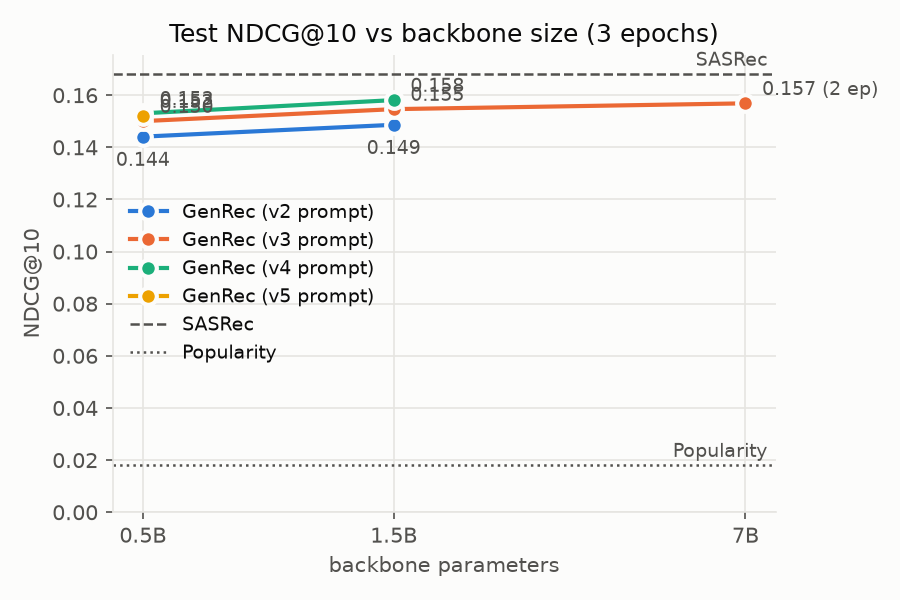
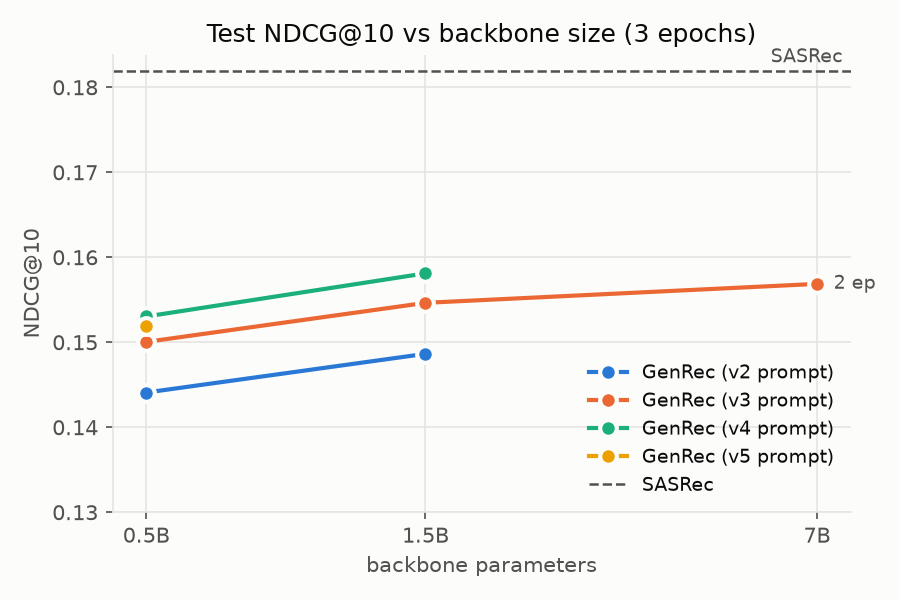
Add paper's LM loss (--lm_weight), tuned SASRec baseline, project goal
- genrec.py: --lm_weight β adds the paper's language loss on the target
  title, L = (1−β)·L_rank + β·L_lm; ranking h is read before the title
  (verified identical to the ranking-only path); β=0 keeps old behavior
- plot.py: select runs by validation score; scaling plot zoomed, values
  in results.md
- docs: project goal (faithful reproduction vs tuned SASRec), SASRec
  tuning grid (NDCG@10 0.1681 → 0.1820), 1.5B v5 result (no gain),
  runs table with LM-loss and 8-epoch runs; RunPod/WSL → Cloud/Local

diff --git a/genrec.py b/genrec.py
@@ -10,7 +10,7 @@ import torch
 import torch.nn as nn
 import torch.nn.functional as F
 from peft import LoraConfig, get_peft_model
-from transformers import AutoModel, AutoTokenizer
+from transformers import AutoModel, AutoModelForCausalLM, AutoTokenizer
 
 from common import add_synopses, evaluate, fmt, load, log_history, machine, pick_device, save_metrics, start_run
 
@@ -32,9 +32,10 @@ def verbalize(d, items, ratings, n, prompt="v2", user=None):
 
 
 class GenRec(nn.Module):
-    def __init__(self, n_items, backbone, lora_r=16, dtype=torch.float32, grad_ckpt=False):
+    def __init__(self, n_items, backbone, lora_r=16, dtype=torch.float32, grad_ckpt=False, lm=False):
         super().__init__()
-        llm = AutoModel.from_pretrained(backbone, dtype=dtype)
+        # lm=True keeps the LM head for the paper's language loss; the ranking path is identical either way
+        llm = (AutoModelForCausalLM if lm else AutoModel).from_pretrained(backbone, dtype=dtype)
         lora = LoraConfig(r=lora_r, lora_alpha=2 * lora_r, target_modules=["q_proj", "k_proj", "v_proj", "o_proj"])
         if grad_ckpt:  # recompute activations in backward: ~30% slower, ~GBs less memory
             llm.gradient_checkpointing_enable()
@@ -44,8 +45,25 @@ class GenRec(nn.Module):
         self.item = nn.Embedding(n_items + 1, llm.config.hidden_size)  # scoring head E
         nn.init.normal_(self.item.weight, std=0.02)
 
+    def hidden(self, tokens):  # transformer body (with LoRA) -> (B, L, d)
+        base = self.llm.get_base_model()
+        return getattr(base, "model", base)(**tokens).last_hidden_state
+
     def encode(self, tokens):  # left-padded -> (B, d), last token
-        return self.norm(self.llm(**tokens).last_hidden_state[:, -1].float())
+        return self.norm(self.hidden(tokens)[:, -1].float())
+
+    def encode_lm(self, tokens, title_len):
+        """Prompt + target title in one pass: h at the last prompt token (before the title),
+        LM loss on the title tokens."""
+        H = self.hidden(tokens)
+        L = H.size(1)
+        rows = torch.arange(H.size(0), device=H.device)
+        h = self.norm(H[rows, L - title_len - 1].float())
+        b, pos = zip(*[(i, L - n - 1 + k) for i, n in enumerate(title_len.tolist()) for k in range(n)])
+        b, pos = torch.tensor(b, device=H.device), torch.tensor(pos, device=H.device)
+        logits = self.llm.get_base_model().lm_head(H[b, pos]).float()  # position pos predicts token pos+1
+        lm_loss = F.cross_entropy(logits, tokens["input_ids"][b, pos + 1])
+        return h, lm_loss
 
     def score(self, h):
         return h @ self.item.weight.T
@@ -59,6 +77,18 @@ class Encoder:
     def __call__(self, users, hist):
         texts = [verbalize(self.d, h, self.d.ratings[u], self.n, self.prompt, u) for u, h in zip(users, hist)]
         return self.tok(texts, return_tensors="pt", padding=True).to(self.device)
+
+    def with_titles(self, users, hist, tgt):
+        """Prompt followed by the target title (training only); left-padded. Returns tokens, title lengths."""
+        texts = [verbalize(self.d, h, self.d.ratings[u], self.n, self.prompt, u) for u, h in zip(users, hist)]
+        prompts = self.tok(texts)["input_ids"]
+        titles = self.tok([" " + self.d.movies.title[t] for t in tgt], add_special_tokens=False)["input_ids"]
+        seqs = [p + t for p, t in zip(prompts, titles)]
+        L, pad = max(map(len, seqs)), self.tok.pad_token_id
+        ids = torch.tensor([[pad] * (L - len(x)) + x for x in seqs])
+        mask = torch.tensor([[0] * (L - len(x)) + [1] * len(x) for x in seqs])
+        tokens = {"input_ids": ids.to(self.device), "attention_mask": mask.to(self.device)}
+        return tokens, torch.tensor([len(t) for t in titles], device=self.device)
 
 
 def score_fn(model, enc):
@@ -92,7 +122,7 @@ def train(args):
 
     tok = AutoTokenizer.from_pretrained(args.backbone, padding_side="left")
     enc = Encoder(d, tok, args.history, device, args.prompt)
-    model = GenRec(d.n_items, args.backbone, args.lora_r, dtype, args.grad_ckpt).to(device)
+    model = GenRec(d.n_items, args.backbone, args.lora_r, dtype, args.grad_ckpt, lm=args.lm_weight > 0).to(device)
     model.llm.print_trainable_parameters()
     if args.resume:  # continue from a saved checkpoint (LoRA + head); a fresh LR schedule starts
         missing = model.load_state_dict(torch.load(args.resume, map_location=device), strict=False)
@@ -119,12 +149,16 @@ def train(args):
         total = window = 0.0
         for step, i in enumerate(range(0, len(samples), args.batch_size), 1):
             users, hist, tgt, rating = zip(*samples[i:i + args.batch_size])
-            logits = model.score(model.encode(enc(users, hist)))
+            if args.lm_weight > 0:  # paper: L = α·L_rank + β·L_language, α + β = 1
+                h, lm_loss = model.encode_lm(*enc.with_titles(users, hist, tgt))
+            else:
+                h, lm_loss = model.encode(enc(users, hist)), 0.0
+            logits = model.score(h)
             loss = F.cross_entropy(logits, torch.tensor(tgt, device=device), reduction="none")
             if args.rating_weight:  # paper's reward weighting: weight by rating, mean 1 per batch
                 w = torch.tensor(rating, device=device, dtype=torch.float)
                 loss = loss * w / w.mean()
-            loss = loss.mean()
+            loss = (1 - args.lm_weight) * loss.mean() + args.lm_weight * lm_loss
             opt.zero_grad()
             loss.backward()
             torch.nn.utils.clip_grad_norm_(params, args.clip)
@@ -176,6 +210,7 @@ if __name__ == "__main__":
     p.add_argument("--warmup", type=float, default=0.05, help="fraction of steps")
     p.add_argument("--clip", type=float, default=1.0, help="grad norm clip")
     p.add_argument("--rating_weight", action="store_true", help="weight loss by target rating")
+    p.add_argument("--lm_weight", type=float, default=0.0, help="β for the paper's language loss on the target title")
     p.add_argument("--resume", help="checkpoint (.pt) to start from, e.g. runs/<run>/best.pt")
     p.add_argument("--seed", type=int, default=42)
     train(p.parse_args())

diff --git a/plot.py b/plot.py
@@ -14,7 +14,7 @@ matplotlib.use("Agg")
 import matplotlib.pyplot as plt
 import matplotlib.ticker
 
-from common import RUNS, evaluate, load, popularity
+from common import RUNS
 
 OUT = Path(__file__).parent / "docs" / "figures"
 SERIES = ["#2a78d6", "#eb6834", "#1baf7a", "#eda100"]  # validated categorical order
@@ -57,11 +57,17 @@ def main_runs():
             yield p, info
 
 
+def valid_score(p, info):
+    """Selection uses validation only (max valid NDCG@10); test is never used to choose."""
+    _, hist = read_run(p)
+    return max((v for _, v in hist.get("valid_NDCG@10", [])), default=info["metrics"]["NDCG@10"])
+
+
 def full_runs():
-    """Best main run per (model, backbone, prompt), by test NDCG@10."""
+    """Best main run per (model, backbone, prompt, epochs), by valid NDCG@10."""
     best = {}
     for p, info in main_runs():
-        key, score = label(p, info), info["metrics"]["NDCG@10"]
+        key, score = label(p, info), valid_score(p, info)
         if key not in best or score > best[key][1]:
             best[key] = (p, score)
     return [p for p, _ in best.values()]
@@ -76,8 +82,8 @@ def best_per_size(runs):
     for p in runs:
         info, _ = read_run(p)
         key = info["args"].get("backbone", "sasrec")
-        if key not in best or info["metrics"]["NDCG@10"] > best[key][1]:
-            best[key] = (p, info["metrics"]["NDCG@10"])
+        if key not in best or valid_score(p, info) > best[key][1]:
+            best[key] = (p, valid_score(p, info))
     return [p for p, _ in sorted(best.values(), key=lambda x: -x[1])][:len(SERIES)]
 
 
@@ -110,32 +116,29 @@ def plot_scaling(runs):
         a = info["args"]
         size = re.search(r"(\d+(?:\.\d+)?)B", a.get("backbone", "")) if p.name.startswith("genrec") else None
         if size:
-            key, ep, ndcg = (a.get("prompt", "v2"), float(size.group(1))), a.get("epochs", 1), info["metrics"]["NDCG@10"]
-            rank = (-abs(ep - SCALING_EPOCHS), ndcg)  # closest to SCALING_EPOCHS, then best score
-            if key not in cells or rank > (-abs(cells[key][0] - SCALING_EPOCHS), cells[key][1]):
-                cells[key] = (ep, ndcg)
+            key, ep = (a.get("prompt", "v2"), float(size.group(1))), a.get("epochs", 1)
+            rank = (-abs(ep - SCALING_EPOCHS), valid_score(p, info))  # closest to SCALING_EPOCHS, then best valid
+            if key not in cells or rank > cells[key][0]:
+                cells[key] = (rank, ep, info["metrics"]["NDCG@10"])
     for p in runs:
         if p.name.startswith("sasrec"):
             sasrec = read_run(p)[0]["metrics"]["NDCG@10"]
     points = {}  # prompt -> [(size, ndcg, epochs)]
-    for (prompt, size), (ep, ndcg) in cells.items():
+    for (prompt, size), (_, ep, ndcg) in cells.items():
         points.setdefault(prompt, []).append((size, ndcg, ep))
     if not points:
         print("no GenRec full runs yet: skip scaling.png")
         return
-    d = load()
-    pop = evaluate(popularity(d), d)["NDCG@10"]
 
     fig, ax = plt.subplots(figsize=(6, 4))
     sizes = sorted({x for pts in points.values() for x, _, _ in pts})
     for i, (color, (prompt, pts)) in enumerate(zip(SERIES, sorted(points.items()))):
         xs, ys, eps = zip(*sorted(pts))
         ax.plot(xs, ys, "-o", color=color, markeredgecolor=SURFACE, markeredgewidth=2, label=f"GenRec ({prompt} prompt)")
-        offset, ha = ((0, -14), "center") if i == 0 else ((8, 4), "left")  # keep same-size labels apart
-        for x, y, ep in zip(xs, ys, eps):
-            note = "" if ep == SCALING_EPOCHS else f" ({ep} ep)"
-            ax.annotate(f"{y:.3f}{note}", (x, y), xytext=offset, textcoords="offset points", ha=ha, fontsize=9, color=INK2)
-    for y, name, style in ((sasrec, "SASRec", "--"), (pop, "Popularity", ":")):
+        for x, y, ep in zip(xs, ys, eps):  # exact values live in results.md; only flag off-schedule points
+            if ep != SCALING_EPOCHS:
+                ax.annotate(f"{ep} ep", (x, y), xytext=(8, 0), textcoords="offset points", va="center", fontsize=9, color=INK2)
+    for y, name, style in ((sasrec, "SASRec", "--"),):  # Popularity (~0.02) is far below the zoomed axis
         if y is not None:
             ax.axhline(y, color=INK2, linestyle=style, linewidth=1.2, label=name)
             ax.annotate(name, (1, y), xycoords=("axes fraction", "data"), xytext=(-4, 4),
@@ -143,9 +146,9 @@ def plot_scaling(runs):
     ax.set_xscale("log")
     ax.set_xticks(sizes, [f"{x:g}B" for x in sizes])
     ax.minorticks_off()
-    ax.set(title=f"Test NDCG@10 vs backbone size ({SCALING_EPOCHS} epochs)", xlabel="backbone parameters", ylabel="NDCG@10", ylim=(0, None))
+    ax.set(title=f"Test NDCG@10 vs backbone size ({SCALING_EPOCHS} epochs)", xlabel="backbone parameters", ylabel="NDCG@10", ylim=(0.13, None))
     ax.title.set_color(INK)
-    ax.legend(loc="center left", fontsize=9)
+    ax.legend(loc="lower right", fontsize=9)
     fig.tight_layout()
     fig.savefig(OUT / "scaling.png", dpi=150)
     print(f"wrote {OUT / 'scaling.png'}")

diff --git a/docs/plan.md b/docs/plan.md
@@ -2,6 +2,20 @@
 
 Paper: [GenRec: An LLM-Backed Recommendation Ranker at Netflix](https://arxiv.org/html/2608.10257v2)
 
+## Goal
+Reproduce GenRec as described in the paper on public data (MovieLens-1M) and check whether it beats a tuned standard baseline (SASRec). Paper-faithful by default; anything not in the paper is opt-in and labeled.
+
+| Component | Status |
+|---|---|
+| Verbalized history → LLM → pooled `h` → `h·e_i`, CE over full catalog | ✅ faithful |
+| Context engineering (prompt versions) | ✅ faithful |
+| Reward weighting (here: rating) | ✅ faithful, tested |
+| LM loss `β·L_language` on the target title | 🔄 faithful, testing |
+| Model-size scaling | ✅ faithful |
+| Warmup, grad clip, LayerNorm on `h`, LoRA | implementation details the paper doesn't specify |
+| Phase 1 (domain pre-training on Netflix logs) | ❌ not reproducible (no data); Qwen2.5 used as-is |
+| Multi-position loss, item init from text | ❌ not in paper — out of scope |
+
 ## Idea
 ```
 history → text prompt → LLM → h (last token) → score_i = h · e_i → softmax over all movies
@@ -27,9 +41,9 @@ history → text prompt → LLM → h (last token) → score_i = h · e_i → so
 
 ## Loss
 ```
-L = CE(score, target_item)
+L = (1−β)·CE(score, target_item) + β·LM(target_title)     # paper: α+β=1
 ```
-- Paper's LM loss (β·LM(target_title)) dropped: redundant with ranking CE here; paper uses it to keep general language ability
+- `--lm_weight β` (default 0 = ranking only); β=0.1 under test
 - Optional: weight loss by rating (paper's "reward")
 
 ## Inference
@@ -73,39 +87,53 @@ Run: `uv run python {common,sasrec,genrec}.py`
 | # | Step | Status |
 |---|---|---|
 | 1 | Data: load, split, verbalize | ✅ |
-| 2 | Baselines: Popularity, SASRec | ✅ SASRec NDCG@10 0.168 |
+| 2 | Baselines: Popularity, SASRec | ✅ SASRec tuned NDCG@10 0.182 (untuned 0.168) |
 | 3 | Pipeline on small subset (CPU/MPS) | ✅ |
 | 4 | First GPU run: 0.5B + LoRA | ✅ beats Popularity |
-| 5 | Ablations | 🔄 prompt v2→v3 ✅ (+4%); rating weights ✅ (no gain); v4/v5 ✅ at 0.5B (within noise); history length ⬜ |
-| 6 | Scaling: 0.5B → 1.5B → 3B → 7B | 🔄 0.5B, 1.5B ✅ (+7%); 1.5B v3 ✅ (0.1546); 7B ✅ (0.1569, 2 ep); 3B queued |
+| 5 | Ablations | 🔄 prompt v2→v3 ✅ (+4%); rating weights ✅ (no gain); v4/v5 ✅ (v5 no gain; v4 +2% at 1.5B, borderline); LM loss 🔄 (#19); history length ⬜ |
+| 6 | Scaling: 0.5B → 1.5B → 3B → 7B | 🔄 0.5B, 1.5B ✅ (+7%); 7B ✅ (0.1569, 2 ep); epochs: 1.5B 3→5 ep +5%, 8 ep 🔄 (#18); 3B queued (#20); final 7B (#22) |
 | 7 | Data scaling on ML-25M (separate benchmark) | ⬜ after current queue |
 | 8 | README: results + reproduce | ⬜ |
 
 ## Runs
-Machines: **RunPod** = RTX 4090 Secure ($0.74/h) or A100 80GB (~$1.4–1.6/h) · **WSL** = local RTX 4060 Ti 16GB (~2.6× slower than 4090, $0) · **M1** = Apple M1 (MPS)
+Machines: **Cloud** = RTX 4090 ($0.74/h) or A100 80GB (~$1.4–1.6/h) · **Local** = RTX 4060 Ti 16GB (~2.6× slower than 4090, $0) · **M1** = Apple M1 (MPS)
 
 | # | Run | Status | Machine | Time | Cost | Test NDCG@10 |
 |---|---|---|---|---|---|---|
-| 1 | SASRec | ✅ | M1 | 16 min | $0 | 0.1681 |
-| 2 | 0.5B v2, 1 ep | ✅ | RunPod 4090 | 26 min | $0.45 | 0.0945 |
-| 3 | 0.5B v2, 1 ep, + warmup/clip | ✅ | RunPod 4090 | 13 min | $0.25 | 0.1295 |
-| 4 | 0.5B v2, 3 ep, lr 2e-4 | ✅ | RunPod 4090 | 38 min | $0.55 | 0.1441 |
-| 5 | 1.5B v2, 3 ep, lr 1e-4 | ✅ | RunPod 4090 | 99 min | $1.40 | 0.1486 |
-| 6 | 0.5B v2, 3 ep, lr 1e-4 | ✅ | RunPod 4090 | 74 min | $1.00 | 0.1386 |
-| 7 | 0.5B v3, 3 ep, lr 2e-4 | ✅ | RunPod 4090 | 78 min | $1.30 | 0.1500 |
-| 8 | 1.5B v3, 3 ep, lr 1e-4 | ✅ | RunPod 4090 | 3.4 h | $2.50 (+$0.85 failed pod) | 0.1546 |
-| 9 | 7B v3, 2 ep, lr 5e-5 | ✅ | RunPod A100 80GB | 6.1 h | $9.60 (+$0.65 crashed start) | 0.1569 |
-| 10 | 0.5B v3, seed 43 (noise check) | ✅ | WSL | 3.4 h | $0 | 0.1558 |
-| 11 | 0.5B v3, rating-weighted loss | ✅ no gain | WSL | 4.0 h | $0 | 0.1473 |
-| 12 | 1.5B v3, 5 ep | ✅ best | WSL | 19 h | $0 | **0.1627** |
-| 13 | 0.5B v5 | ✅ | WSL | 5.6 h | $0 | 0.1520 |
-| 14 | 0.5B v4 | ✅ | WSL | 4.0 h | $0 | 0.1530 |
-| 15 | 1.5B v4 (`--grad_ckpt`) | ✅ | WSL | 11.8 h | $0 | 0.1581 |
-| 16 | 1.5B v5 (`--grad_ckpt`) | 🔄 running | WSL | ~17 h | $0 | – |
-| 17 | 1.5B v4, 8 ep (epoch-count study for final) | ⏳ queued | WSL | ~31 h | $0 | – |
-| 18 | 3B v4 (`--grad_ckpt`) | ⏳ queued | WSL | ~17–22 h | $0 | – |
-| 19 | 0.5B v3, history 50 (`--grad_ckpt`) | ⏳ queued | WSL | ~11 h | $0 | – |
-| 20 | **Final: 7B v4, epochs from #17 (3–5), lr 5e-5** | ⬜ after #17 | RunPod A100 80GB | ~9–16 h | ~$15–26 | – |
+| 1 | SASRec (untuned: d=64, 100 ep) | ✅ | M1 | 16 min | $0 | 0.1681 |
+| 2 | 0.5B v2, 1 ep | ✅ | Cloud 4090 | 26 min | $0.45 | 0.0945 |
+| 3 | 0.5B v2, 1 ep, + warmup/clip | ✅ | Cloud 4090 | 13 min | $0.25 | 0.1295 |
+| 4 | 0.5B v2, 3 ep, lr 2e-4 | ✅ | Cloud 4090 | 38 min | $0.55 | 0.1441 |
+| 5 | 1.5B v2, 3 ep, lr 1e-4 | ✅ | Cloud 4090 | 99 min | $1.40 | 0.1486 |
+| 6 | 0.5B v2, 3 ep, lr 1e-4 | ✅ | Cloud 4090 | 74 min | $1.00 | 0.1386 |
+| 7 | 0.5B v3, 3 ep, lr 2e-4 | ✅ | Cloud 4090 | 78 min | $1.30 | 0.1500 |
+| 8 | 1.5B v3, 3 ep, lr 1e-4 | ✅ | Cloud 4090 | 3.4 h | $2.50 (+$0.85 failed pod) | 0.1546 |
+| 9 | 7B v3, 2 ep, lr 5e-5 | ✅ | Cloud A100 80GB | 6.1 h | $9.60 (+$0.65 crashed start) | 0.1569 |
+| 10 | 0.5B v3, seed 43 (noise check) | ✅ | Local | 3.4 h | $0 | 0.1558 |
+| 11 | 0.5B v3, rating-weighted loss | ✅ no gain | Local | 4.0 h | $0 | 0.1473 |
+| 12 | 1.5B v3, 5 ep | ✅ best | Local | 19 h | $0 | **0.1627** |
+| 13 | 0.5B v5 | ✅ | Local | 5.6 h | $0 | 0.1520 |
+| 14 | 0.5B v4 | ✅ | Local | 4.0 h | $0 | 0.1530 |
+| 15 | 1.5B v4 (`--grad_ckpt`) | ✅ | Local | 11.8 h | $0 | 0.1581 |
+| 16 | 1.5B v5 (`--grad_ckpt`) | ✅ no gain | Local | 16.8 h | $0 | 0.1552 |
+| 17 | SASRec tuning: d × dropout × heads (5 runs, 200 ep) | ✅ new baseline | M1 | 4 h | $0 | **0.1820** |
+| 18 | 1.5B v4, 8 ep (epoch-count study for final) | 🔄 running (valid ep1/2: 0.1145 / 0.1388) | Local | ~31 h | $0 | – |
+| 19 | 0.5B v4 + LM loss (β=0.1) | ⏳ queued | Local | ~4.5 h | $0 | – |
+| 20 | 3B v4 (`--grad_ckpt`) | ⏳ queued | Local | ~17–22 h | $0 | – |
+| 21 | 0.5B v3, history 50 (`--grad_ckpt`) | ⏳ queued | Local | ~11 h | $0 | – |
+| 22 | **Final: 7B v4, epochs from #18, LM loss per #19, lr 5e-5** | ⬜ after #18, #19 | Cloud A100 80GB | ~9–16 h | ~$15–26 | – |
+
+### SASRec tuning (#17; Mac M1, 200 ep, selected by valid)
+| d | dropout | heads | Valid NDCG@10 | Test NDCG@10 |
+|---|---|---|---|---|
+| 64 | 0.2 | 1 | 0.1772 | 0.1709 |
+| 64 | 0.5 | 1 | 0.1452 | 0.1394 |
+| 128 | 0.2 | 1 | 0.1938 | 0.1828 |
+| 128 | 0.5 | 1 | 0.1605 | 0.1546 |
+| **128** | **0.2** | **2** | **0.1942** | **0.1820** ← baseline |
+
+### Final model goal
+Tuned SASRec (0.1820) is the bar; best GenRec so far is 0.1627 (−11%). Projection for 7B v4 at 3–5 ep: ~0.165–0.172 (−5% to −9%) — likely still below SASRec. Goal: close as much of the gap as possible, report the remaining gap honestly.
 
 ### Prompt × size grid (test NDCG@10)
 Settings fixed per size (0.5B: lr 2e-4, 5% warmup; 1.5B/3B: lr 1e-4, 10% warmup; 7B: lr 5e-5). 7B is reserved for the final model.
@@ -113,19 +141,19 @@ Settings fixed per size (0.5B: lr 2e-4, 5% warmup; 1.5B/3B: lr 1e-4, 10% warmup;
 | Size \ prompt | v2 | v3 | v4 | v5 |
 |---|---|---|---|---|
 | 0.5B | 0.1441 (#4) | 0.1500 (#7), seed 43: 0.1558 (#10) | 0.1530 (#14) | 0.1520 (#13) |
-| 1.5B | 0.1486 (#5) | 0.1546 (#8), 5 ep: 0.1627 (#12) | 0.1581 (#15) | #16 |
-| 3B | – | – | #18 | – |
-| 7B | – | 0.1569 (#9, 2 ep) | final #20 | – |
+| 1.5B | 0.1486 (#5) | 0.1546 (#8), 5 ep: 0.1627 (#12) | 0.1581 (#15) | 0.1552 (#16) |
+| 3B | – | – | #20 | – |
+| 7B | – | 0.1569 (#9, 2 ep) | final #22 | – |
 
 ### Planned: ML-25M data scaling (step 7)
 Fixed model (0.5B v3), vary #users sampled from ML-25M; SASRec at each size. Eval on a fixed random 10k-user subset; full catalog (~59k movies). Not comparable to ML-1M numbers.
 
 | # | Run | Status | Machine | Time | Cost | Test NDCG@10 |
 |---|---|---|---|---|---|---|
-| 21 | Code: ML-25M loader, `--dataset`, user subsample, eval subset | ⬜ | – | – | – | – |
-| 22 | SASRec, 10k / 40k / 160k users | ⬜ | WSL | ~1–3 h total | $0 | – |
-| 23 | GenRec 0.5B v3, 10k users | ⬜ | WSL | ~5 h (3 ep) | $0 | – |
-| 24 | GenRec 0.5B v3, 40k users | ⬜ | WSL | ~21 h (3 ep) | $0 | – |
-| 25 | GenRec 0.5B v3, 160k users (optional) | ⬜ | WSL / RunPod | ~28 h/epoch WSL | $0 / ~$8/epoch | – |
+| 23 | Code: ML-25M loader, `--dataset`, user subsample, eval subset | ⬜ | – | – | – | – |
+| 24 | SASRec, 10k / 40k / 160k users | ⬜ | Local | ~1–3 h total | $0 | – |
+| 25 | GenRec 0.5B v3, 10k users | ⬜ | Local | ~5 h (3 ep) | $0 | – |
+| 26 | GenRec 0.5B v3, 40k users | ⬜ | Local | ~21 h (3 ep) | $0 | – |
+| 27 | GenRec 0.5B v3, 160k users (optional) | ⬜ | Local / Cloud | ~28 h/epoch Local | $0 / ~$8/epoch | – |
 
 Results → [results.md](results.md)

diff --git a/docs/results.md b/docs/results.md
@@ -4,11 +4,11 @@ MovieLens-1M · leave-one-out · test split · full catalog (3,706 items, seen i
 
 | Model | MRR | HR@10 | NDCG@10 | Δ NDCG@10 vs SASRec | Train time | Machine | Cost |
 |---|---|---|---|---|---|---|---|
-| Popularity | 0.0199 | 0.0369 | 0.0180 | −89% | – | – | – |
-| **SASRec** | **0.1454** | **0.2942** | **0.1681** | – | 15.8 min | Apple M1 (MPS) | – |
-| GenRec (Qwen2.5-0.5B, v4 prompt) | 0.1310 | 0.2717 | 0.1530 | −9% | 237.7 min | RTX 4060 Ti (WSL) | $0 |
-| GenRec (Qwen2.5-1.5B, v3 prompt, 5 ep) | 0.1439 | 0.2700 | 0.1627 | −3% | 1137 min | RTX 4060 Ti (WSL) | $0 |
-| GenRec (Qwen2.5-7B, v3 prompt, 2 ep) | 0.1369 | 0.2692 | 0.1569 | −7% | 355.2 min | A100 80GB (CUDA) | ~$9.60 |
+| Popularity | 0.0199 | 0.0369 | 0.0180 | −90% | – | – | – |
+| **SASRec (tuned)** | **0.1547** | **0.3209** | **0.1820** | – | 56.2 min | Apple M1 (MPS) | $0 |
+| GenRec (Qwen2.5-0.5B, v4 prompt) | 0.1310 | 0.2717 | 0.1530 | −16% | 237.7 min | RTX 4060 Ti (Local) | $0 |
+| GenRec (Qwen2.5-1.5B, v3 prompt, 5 ep) | 0.1439 | 0.2700 | 0.1627 | −11% | 1137 min | RTX 4060 Ti (Local) | $0 |
+| GenRec (Qwen2.5-7B, v3 prompt, 2 ep) | 0.1369 | 0.2692 | 0.1569 | −14% | 355.2 min | A100 80GB (CUDA) | ~$9.60 |
 
 ## Figures
 Generated by `uv run python plot.py` from `runs/`.
@@ -22,18 +22,19 @@ Generated by `uv run python plot.py` from `runs/`.
 ## Settings
 | Model | Config |
 |---|---|
-| SASRec | d=64, 2 layers, 1 head, max_len=200, dropout=0.2, lr=1e-3, batch=128, 100 epochs, best valid NDCG@10 |
+| SASRec | d=128, 2 layers, 2 heads, max_len=200, dropout=0.2, lr=1e-3, batch=128, 200 epochs, best valid NDCG@10; chosen from a d∈{64,128} × dropout∈{0.2,0.5} (+2 heads) grid by valid |
 | GenRec | Qwen2.5-0.5B / 1.5B + LoRA r=16 (q,k,v,o), last-token h → LayerNorm → h·E, random-init E, CE over full catalog, history=20, prompt v2 (title+rating), v3 (+genres), v4 (v3 + user profile) or v5 (v3 + synopsis of last 5 movies), 16 samples/user/epoch, batch=8, lr=2e-4 (LoRA; 1e-4 for 1.5B) / 1e-3 (head), 3 epochs, bf16, 5% linear warmup (10% for 1.5B), `--grad_ckpt` for 1.5B v3 → linear decay to 0, grad-norm clip 1.0 |
 
 ## Notes
+- SASRec tuning (test NDCG@10): untuned d=64, 100 ep: 0.1681 → tuned 0.1820 (+8%). Same selection rule as GenRec (best valid), so both baselines got comparable tuning effort
 - Backbone choice is ours: the paper uses an internal ~1B–10B LLM with Netflix-specific pretraining (Phase 1); no equivalent here
 - Train time includes periodic valid eval, excludes final test eval
-- Cost = pod time (training + eval) at $0.74/h (RunPod Secure RTX 4090)
-- SASRec run-to-run variation on MPS (same seed): NDCG@10 0.1681 / 0.1701
+- Cost = pod time (training + eval) at $0.74/h (Cloud RTX 4090)
+- SASRec (untuned) run-to-run variation on MPS (same seed): NDCG@10 0.1681 / 0.1701
 - Same-settings comparisons (test NDCG@10): 0.5B v2 → v3: 0.1441 → 0.1500 (+4%); 0.5B → 1.5B (v2, lr 1e-4): 0.1386 → 0.1486 (+7%); 1.5B v2 → v3: 0.1486 → 0.1546 (+4%)
 - Seed variance: 0.5B v3 seed 42 / 43 → 0.1500 / 0.1558 (±2% around 0.153). Gains under ~4% are within noise; the +4% prompt gain is not yet significant
 - Rating-weighted loss (paper's "reward" weighting), 0.5B v3: 0.1473 — no gain (−4% vs seed mean 0.153); metric counts the next rating regardless of its value
-- Prompts (3 ep): 0.5B v3 / v4 / v5 → 0.1500 / 0.1530 / 0.1520 (all within seed noise); 1.5B v3 / v4 → 0.1546 / 0.1581 (+2%, borderline)
+- Prompts (3 ep): 0.5B v3 / v4 / v5 → 0.1500 / 0.1530 / 0.1520 (all within seed noise); 1.5B v3 / v4 / v5 → 0.1546 / 0.1581 / 0.1552 (v4 +2%, borderline; v5 no gain)
 - Epochs: 1.5B v3 3 → 5 ep: 0.1546 → 0.1627 (+5%)
 - 7B: 2 epochs (cost), lr 5e-5, 10% warmup, `--grad_ckpt`. Valid NDCG@10 vs 1.5B v3 at the same epoch: +7% (ep1), +8% (ep2); test vs 1.5B v3 at 3 epochs: +1.5%
 - Warmup + grad clip are required: without them training can collapse to popularity-level
